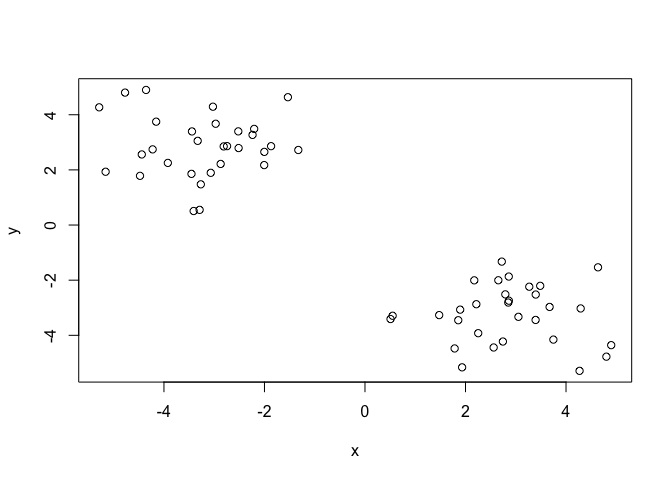
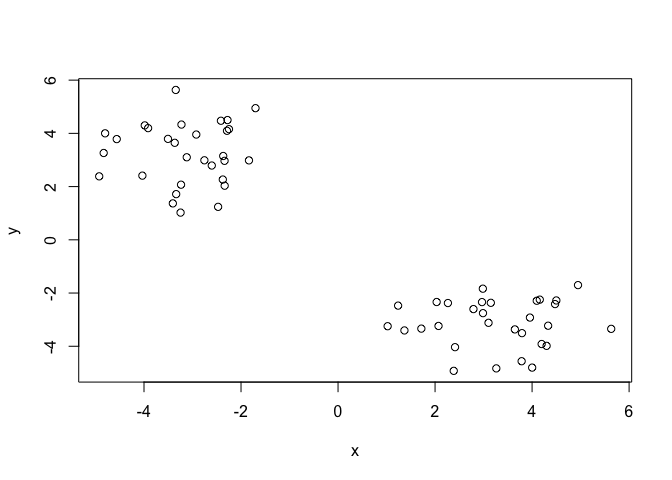
Class08 .md

diff --git a/Class08/Class07-08.md b/Class08/Class07-08.md
@@ -1,0 +1,310 @@
+Class08
+================
+STEPHANIE CURTIS
+2/6/2019
+
+R Markdown
+----------
+
+This is an R Markdown document. Markdown is a simple formatting syntax for authoring HTML, PDF, and MS Word documents. For more details on using R Markdown see <http://rmarkdown.rstudio.com>.
+
+When you click the **Knit** button a document will be generated that includes both content as well as the output of any embedded R code chunks within the document. You can embed an R code chunk like this:
+
+``` r
+# Generate some example data for clustering
+tmp <- c(rnorm(30,-3), rnorm(30,3))
+x <- cbind(x=tmp, y=rev(tmp))
+plot(x)
+```
+
+![](Class07-08_files/figure-markdown_github/unnamed-chunk-1-1.png)
+
+``` r
+km<-kmeans(x,centers=2,nstart=20)
+km
+```
+
+    ## K-means clustering with 2 clusters of sizes 30, 30
+    ## 
+    ## Cluster means:
+    ##           x         y
+    ## 1 -3.126108  3.252343
+    ## 2  3.252343 -3.126108
+    ## 
+    ## Clustering vector:
+    ##  [1] 1 1 1 1 1 1 1 1 1 1 1 1 1 1 1 1 1 1 1 1 1 1 1 1 1 1 1 1 1 1 2 2 2 2 2
+    ## [36] 2 2 2 2 2 2 2 2 2 2 2 2 2 2 2 2 2 2 2 2 2 2 2 2 2
+    ## 
+    ## Within cluster sum of squares by cluster:
+    ## [1] 62.01692 62.01692
+    ##  (between_SS / total_SS =  90.8 %)
+    ## 
+    ## Available components:
+    ## 
+    ## [1] "cluster"      "centers"      "totss"        "withinss"    
+    ## [5] "tot.withinss" "betweenss"    "size"         "iter"        
+    ## [9] "ifault"
+
+``` r
+#size of clusters
+km$size
+```
+
+    ## [1] 30 30
+
+``` r
+km$cluster
+```
+
+    ##  [1] 1 1 1 1 1 1 1 1 1 1 1 1 1 1 1 1 1 1 1 1 1 1 1 1 1 1 1 1 1 1 2 2 2 2 2
+    ## [36] 2 2 2 2 2 2 2 2 2 2 2 2 2 2 2 2 2 2 2 2 2 2 2 2 2
+
+``` r
+plot(x,col=km$cluster)
+points(km$centers,col="blue",pch=15,cex=1.5)
+```
+
+![](Class07-08_files/figure-markdown_github/unnamed-chunk-5-1.png)
+
+HIERARCHICAL CLUSTERING
+-----------------------
+
+``` r
+#Hierarchical clustering in R
+# First we need to calculate point (dis)similarity
+# as the Euclidean distance between observations
+dist_matrix <- dist(x)
+# The hclust() function returns a hierarchical
+# clustering model
+hc <- hclust(d = dist_matrix)
+# the print
+hc
+```
+
+    ## 
+    ## Call:
+    ## hclust(d = dist_matrix)
+    ## 
+    ## Cluster method   : complete 
+    ## Distance         : euclidean 
+    ## Number of objects: 60
+
+``` r
+plot(hc)
+abline(h=6,col="red")
+```
+
+![](Class07-08_files/figure-markdown_github/unnamed-chunk-7-1.png)
+
+``` r
+#cut your tree of variable hc by h height OR BY K=Number if you know how many groups you want but don't know what height to cut at to get the two groups. We picked 6 because we looked at the plot and knew it was at that height..
+grp2<-cutree(hc,h=6)
+```
+
+``` r
+plot(x,col=grp2)
+```
+
+![](Class07-08_files/figure-markdown_github/unnamed-chunk-8-1.png)
+
+``` r
+plot(hc)
+abline(h=2.5,col="blue")
+```
+
+![](Class07-08_files/figure-markdown_github/unnamed-chunk-9-1.png)
+
+``` r
+groupsies<-cutree(hc,h=2.5)
+plot(x,col=groupsies)
+```
+
+![](Class07-08_files/figure-markdown_github/unnamed-chunk-10-1.png)
+
+Different linkage methods for clustering
+----------------------------------------
+
+Default is Complete which does pairwase comparisons for each point and picks the farthest ones and goes from there branching out to the enxt closest one to include in the cluster. Other options include "Single" which starts with the two closest. "Average" " which somehow uses the average of the distance between two points to start or something and finally "centroid" which finds the center of each (of the two?) clusters and goes from there.
+
+``` r
+#try hc plotting whith different methods (hc.single<-hclust(x,single)) or something
+```
+
+Stephanie gives it a go all by herself:
+---------------------------------------
+
+``` r
+# Step 1. Generate some example data for clustering
+x <- rbind(
+ matrix(rnorm(100, mean=0, sd = 0.3), ncol = 2), # c1
+ matrix(rnorm(100, mean = 1, sd = 0.3), ncol = 2), # c2
+ matrix(c(rnorm(50, mean = 1, sd = 0.3), # c3
+ rnorm(50, mean = 0, sd = 0.3)), ncol = 2))
+colnames(x) <- c("x", "y")
+# Step 2. Plot the data without clustering
+plot(x)
+```
+
+![](Class07-08_files/figure-markdown_github/unnamed-chunk-12-1.png)
+
+``` r
+# Step 3. Generate colors for known clusters
+# (just so we can compare to hclust results)
+col <- as.factor( rep(c("c1","c2","c3"), each=50) )
+plot(x, col=col)
+```
+
+![](Class07-08_files/figure-markdown_github/unnamed-chunk-12-2.png)
+
+``` r
+sdist<-dist(x) #calc dist between points
+sdchc<-hclust(sdist)
+#dendrogram
+plot(sdchc)
+```
+
+![](Class07-08_files/figure-markdown_github/unnamed-chunk-13-1.png)
+
+``` r
+sgrp2<-cutree(sdchc,k=2)
+plot(x,col=sgrp2)
+```
+
+![](Class07-08_files/figure-markdown_github/unnamed-chunk-13-2.png)
+
+``` r
+sgrp3<-cutree(sdchc,k=3)
+plot(x,col=sgrp3)
+```
+
+![](Class07-08_files/figure-markdown_github/unnamed-chunk-13-3.png) Boundaries are the issue. The structure/core of the clustrers are pretty reproducible and trustworthy but the boundaries are not so. IF you look at the in;put graph versus the graph of 3 clustrers that I generated some things were put into the red that I know from the input actually belong to green or black etc.
+
+NOW WE ARE DOING PCA
+====================
+
+``` r
+## You can also download this file from the class website!
+mydata <- read.csv("https://tinyurl.com/expression-CSV",
+ row.names=1)
+head(mydata) 
+```
+
+    ##        wt1 wt2  wt3  wt4 wt5 ko1 ko2 ko3 ko4 ko5
+    ## gene1  439 458  408  429 420  90  88  86  90  93
+    ## gene2  219 200  204  210 187 427 423 434 433 426
+    ## gene3 1006 989 1030 1017 973 252 237 238 226 210
+    ## gene4  783 792  829  856 760 849 856 835 885 894
+    ## gene5  181 249  204  244 225 277 305 272 270 279
+    ## gene6  460 502  491  491 493 612 594 577 618 638
+
+``` r
+#prcomp data actaully needs your data flipped.. hence the t for transpose
+pca <- prcomp(t(mydata), scale=TRUE) 
+summary(pca)
+```
+
+    ## Importance of components:
+    ##                           PC1    PC2     PC3     PC4     PC5     PC6
+    ## Standard deviation     9.6237 1.5198 1.05787 1.05203 0.88062 0.82545
+    ## Proportion of Variance 0.9262 0.0231 0.01119 0.01107 0.00775 0.00681
+    ## Cumulative Proportion  0.9262 0.9493 0.96045 0.97152 0.97928 0.98609
+    ##                            PC7     PC8     PC9      PC10
+    ## Standard deviation     0.80111 0.62065 0.60342 3.348e-15
+    ## Proportion of Variance 0.00642 0.00385 0.00364 0.000e+00
+    ## Cumulative Proportion  0.99251 0.99636 1.00000 1.000e+00
+
+Make our first pca plot
+
+``` r
+plot(pca$x)
+```
+
+![](Class07-08_files/figure-markdown_github/unnamed-chunk-16-1.png)
+
+``` r
+plot(pca$x[,1], pca$x[,2]) 
+```
+
+![](Class07-08_files/figure-markdown_github/unnamed-chunk-17-1.png)
+
+``` r
+## Variance captured per PC
+pca.var <- pca$sdev^2 
+pca.var.per <- round(pca.var/sum(pca.var)*100, 1)
+pca.var.per
+```
+
+    ##  [1] 92.6  2.3  1.1  1.1  0.8  0.7  0.6  0.4  0.4  0.0
+
+``` r
+barplot(pca.var.per, main="Scree Plot",
+ xlab="Principal Component", ylab="Percent Variation")
+```
+
+![](Class07-08_files/figure-markdown_github/unnamed-chunk-19-1.png)
+
+``` r
+#Lets make our plot a bit more useful…
+## A vector of colors for wt and ko samples
+colvec <- as.factor( substr( colnames(mydata), 1, 2) )
+#substr cuts off your strings. ^^IN this example it is taking your column name strings of your data mydata which are wt1 wt2 wt3 wt4 wt5 ko1 ko2 ko3 ko4 and ko5 and then takes the 1st and 2nd characters of them which are wt and ko such that wt1-5 are now all wt and ko1-5 are now all ko!!! You will def want to do this
+plot(pca$x[,1], pca$x[,2], col=colvec, pch=16,
+ xlab=paste0("PC1 (", pca.var.per[1], "%)"),
+ ylab=paste0("PC2 (", pca.var.per[2], "%)")) 
+```
+
+![](Class07-08_files/figure-markdown_github/unnamed-chunk-20-1.png)
+
+Hands-on section worksheet
+==========================
+
+``` r
+x<- read.csv("UK_foods.csv")
+#I manually uploaded thisfile bc im a n00b
+```
+
+``` r
+dim(x)
+```
+
+    ## [1] 17  5
+
+``` r
+#to find the dimensions of x!
+```
+
+``` r
+head(x)
+```
+
+    ##                X England Wales Scotland N.Ireland
+    ## 1         Cheese     105   103      103        66
+    ## 2  Carcass_meat      245   227      242       267
+    ## 3    Other_meat      685   803      750       586
+    ## 4           Fish     147   160      122        93
+    ## 5 Fats_and_oils      193   235      184       209
+    ## 6         Sugars     156   175      147       139
+
+``` r
+#because the row names were assigned to a column.. but we don't want them as a column with a column header we just want them to be row labels basically, not part of the table data!!
+# Note how the minus indexing works
+rownames(x) <- x[,1]#This assigns the data currently in x column 1 to be the names of the rows. 
+x <- x[,-1]#Then this removes the first column! IF YOU WANT EVERYTHING EXCEPT THE FIRST COLUMN TO BE PRINTED YOU CAN USE THE MINUSSIGN. IF YOU WANTED ALL WITHOUT THE COLUMNS 1-3 you can write "-1:3" wowza
+head(x)
+```
+
+    ##                England Wales Scotland N.Ireland
+    ## Cheese             105   103      103        66
+    ## Carcass_meat       245   227      242       267
+    ## Other_meat         685   803      750       586
+    ## Fish               147   160      122        93
+    ## Fats_and_oils      193   235      184       209
+    ## Sugars             156   175      147       139
+
+``` r
+#Moral of the story: A better way to fix this would be to read this file in correctly. read.csv("UK_foods.csv",row.names=1) which tells you that the first column is actually the row names. THe code in this chunk is dangerous bc it is coding to delete columns from your dataset! Yikes!
+```
+
+``` r
+x <- read.csv("UK_foods.csv")
+```
